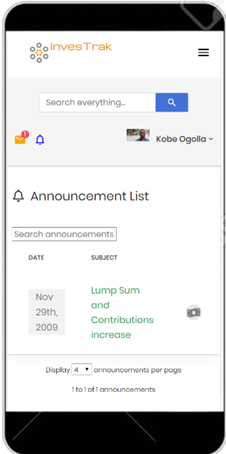
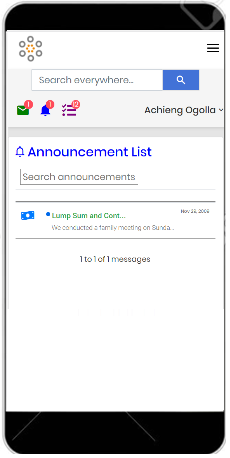
Changing Announcement pages
Changing images to match updated screens

diff --git a/docs/top-banner.md b/docs/top-banner.md
@@ -45,7 +45,7 @@ This icon links to the announcement module where members can view announcements 
 
 ![alt text](images/3.2_Announcement.png "announcements icon")
 
-Clicking on the `View All Announcements` button takes you to the `Announcements` screen from where a member can view all announcements.
+Clicking on the `View All` button takes you to the `Announcements` screen from where a member can view all announcements.
 
 ?> **Note** Announcements are also sent to the members as external emails.
 
